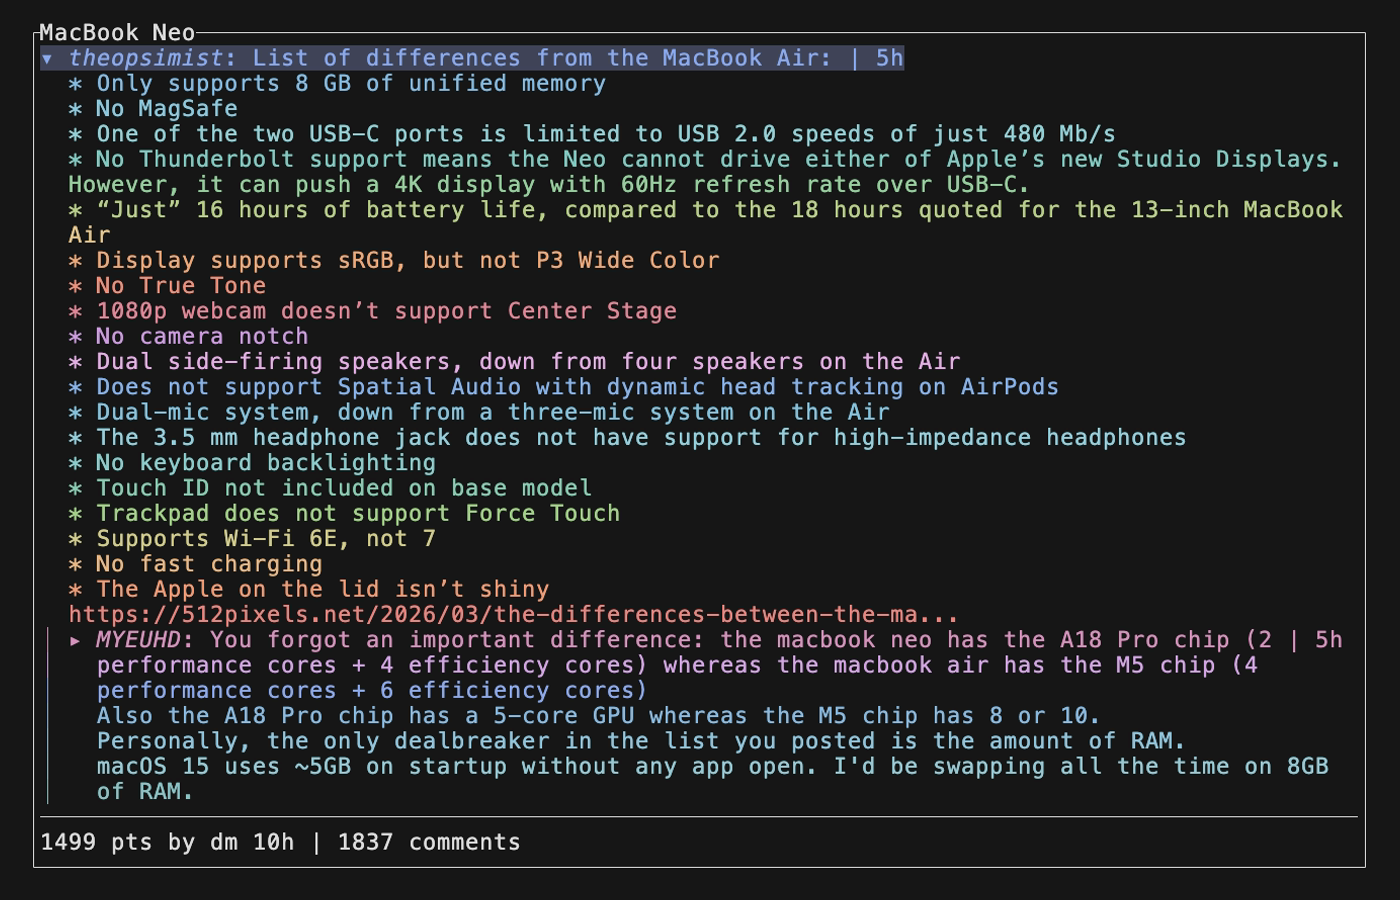
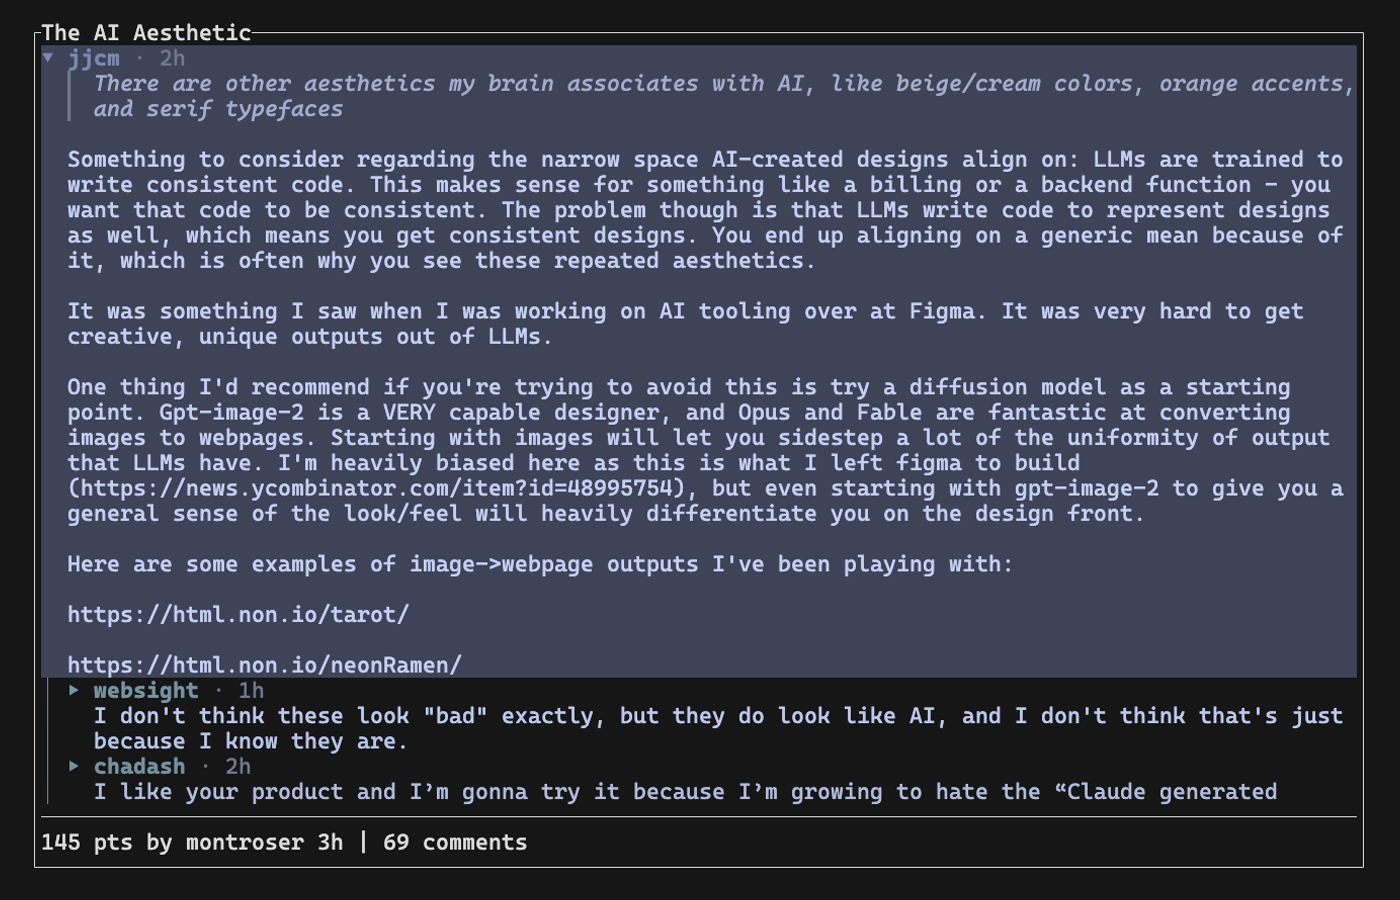
feat(screenshots): require VHS, ImageMagick, fontconfig and update scripts

diff --git a/src/ui/mod.rs b/src/ui/mod.rs
@@ -118,7 +118,7 @@ pub(crate) const FALLBACK_DOMAIN_ICON: &str = "\u{f0ac}";
 pub(crate) fn domain_icon(domain: &str) -> Option<&'static str> {
     const NEWS: &str = "\u{f1ea}";
     const ACADEMIC: &str = "\u{f02d}";
-    const AI: &str = "\u{f544}";
+    const AI: &str = "\u{ee0d}";
     const GITHUB: &str = "\u{f09b}";
     const GOOGLE: &str = "\u{f1a0}";
     const APPLE: &str = "\u{f179}";
@@ -134,10 +134,10 @@ pub(crate) fn domain_icon(domain: &str) -> Option<&'static str> {
         "github.com" | "github.blog" | "gist.github.com" => GITHUB,
         "gitlab.com" => "\u{f296}",
         "bitbucket.org" => "\u{f171}",
-        "codeberg.org" => "\u{f1d3}",
+        "codeberg.org" => "\u{f330}",
 
         // Video
-        "youtube.com" | "youtu.be" => "\u{f167}",
+        "youtube.com" | "youtu.be" => "\u{f16a}",
         "twitch.tv" => "\u{f1e8}",
 
         // Social
@@ -326,6 +326,11 @@ mod tests {
     }
 
     #[test]
+    fn domain_icon_codeberg() {
+        assert_eq!(domain_icon("codeberg.org"), Some("\u{f330}"));
+    }
+
+    #[test]
     fn domain_icon_news_bucket() {
         assert_eq!(domain_icon("theguardian.com"), Some("\u{f1ea}"));
         assert_eq!(domain_icon("ft.com"), Some("\u{f1ea}"));
@@ -341,8 +346,15 @@ mod tests {
 
     #[test]
     fn domain_icon_ai_labs() {
-        assert_eq!(domain_icon("anthropic.com"), Some("\u{f544}"));
-        assert_eq!(domain_icon("huggingface.co"), Some("\u{f544}"));
+        assert_eq!(domain_icon("anthropic.com"), Some("\u{ee0d}"));
+        assert_eq!(domain_icon("huggingface.co"), Some("\u{ee0d}"));
+    }
+
+    #[test]
+    fn domain_icon_video_sites() {
+        assert_eq!(domain_icon("youtube.com"), Some("\u{f16a}"));
+        assert_eq!(domain_icon("youtu.be"), Some("\u{f16a}"));
+        assert_eq!(domain_icon("twitch.tv"), Some("\u{f1e8}"));
     }
 
     #[test]

diff --git a/README.md b/README.md
@@ -173,6 +173,9 @@ just build
 just screenshots
 ```
 
+Screenshot generation requires VHS, ImageMagick (`magick`), fontconfig
+(`fc-match`), and `CaskaydiaCove Nerd Font Mono`.
+
 Cut and publish a release through the canonical release script:
 
 ```bash
